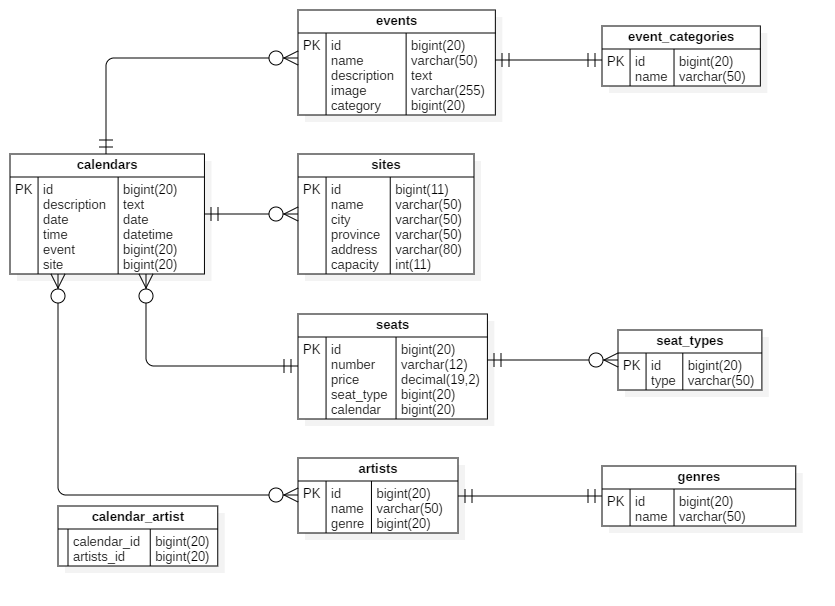
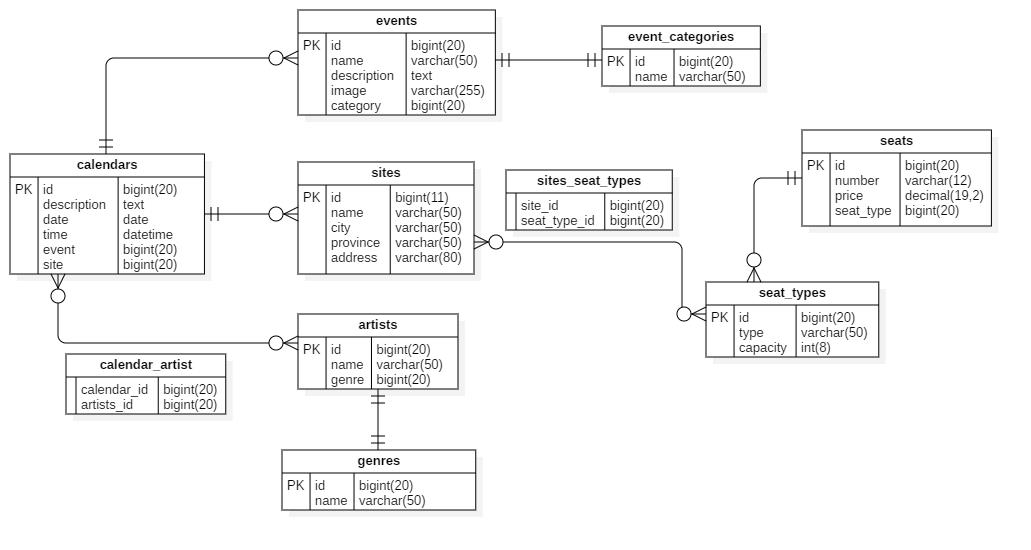
update der

Changed region(s): [[0.0, 0.2164, 0.9653, 0.9582], [0.0934, 0.0, 0.9341, 0.2164], [0.7473, 0.2164, 0.9653, 0.4327]]

diff --git a/src/main/java/com/gotoevent/api/entity/Site.java b/src/main/java/com/gotoevent/api/entity/Site.java
@@ -1,5 +1,8 @@
 package com.gotoevent.api.entity;
 
+import java.util.Set;
+
+import javax.persistence.CascadeType;
 import javax.persistence.Column;
 import javax.persistence.Entity;
 import javax.persistence.FetchType;
@@ -7,7 +10,7 @@ import javax.persistence.GeneratedValue;
 import javax.persistence.GenerationType;
 import javax.persistence.Id;
 import javax.persistence.JoinColumn;
-import javax.persistence.OneToOne;
+import javax.persistence.ManyToMany;
 import javax.persistence.Table;
 
 import lombok.Getter;
@@ -37,31 +40,32 @@ public class Site implements IValidation<Site> {
 	
 	@Column(name = "address", length = 80, nullable = false, unique = true)
 	private String address;
+		
+	@JoinColumn(name = "seatTypes", nullable = false)
+	@ManyToMany(fetch = FetchType.EAGER, cascade = CascadeType.ALL)
+	private Set<SeatType> seatTypes;
 	
-	@Column(name = "capacity", length = 8, nullable = false)
-	private int capacity;
-	
-	public Site(long id, String name, String city, String province, String address, int capacity) {
+	public Site(long id, String name, String city, String province, String address, Set<SeatType> seatTypes) {
 		this.id = id;
 		this.name = name;
 		this.city = city;
 		this.province = province;
 		this.address = address;
-		this.capacity = capacity;
+		this.seatTypes = seatTypes;
 	}
 	
-	public Site(String name, String city, String province, String address, int capacity) {
+	public Site(String name, String city, String province, String address, int capacity, Set<SeatType> seatTypes) {
 		this.name = name;
 		this.city = city;
 		this.province = province;
 		this.address = address;
-		this.capacity = capacity;
+		this.seatTypes = seatTypes;
 	}
-
+	
 	@Override
 	public String toString() {
 		return "Site [id=" + id + ", name=" + name + ", city=" + city + ", province=" + province + ", address="
-				+ address + ", capacity=" + capacity + "]";
+				+ address +", seatTypes=" + seatTypes + "]";
 	}
 
 	@Override
@@ -69,11 +73,11 @@ public class Site implements IValidation<Site> {
 		final int prime = 31;
 		int result = 1;
 		result = prime * result + ((address == null) ? 0 : address.hashCode());
-		result = prime * result + capacity;
 		result = prime * result + ((city == null) ? 0 : city.hashCode());
-		result = prime * result + ((name == null) ? 0 : name.hashCode());
 		result = prime * result + (int) (id ^ (id >>> 32));
+		result = prime * result + ((name == null) ? 0 : name.hashCode());
 		result = prime * result + ((province == null) ? 0 : province.hashCode());
+		result = prime * result + ((seatTypes == null) ? 0 : seatTypes.hashCode());
 		return result;
 	}
 
@@ -85,13 +89,16 @@ public class Site implements IValidation<Site> {
 		Site site = (Site) obj;
 		
 		return this.id == site.getId() && this.city.equals(site.getCity()) && this.province.equals(site.getProvince()) 
-			&& this.address.equals(site.getAddress()) && this.capacity == site.getCapacity() && this.name.equals(site.getName());
+			&& this.address.equals(site.getAddress()) && this.name.equals(site.getName()) && !this.seatTypes.isEmpty();
 	}
 
 	@Override
 	public boolean validateNullEmpty() {
         if(id >= 0 && name != null && !(name.trim().equals("")) && address != null && !(address.trim().equals(""))
-        		   && city != null && !(city.trim().equals("")) && province != null && !(province.trim().equals(""))) {
+        		&& city != null && !(city.trim().equals("")) && province != null && !(province.trim().equals("")) && !this.seatTypes.isEmpty()) {
+        	for(SeatType seatType : seatTypes) {
+        		if(!seatType.validateNullEmpty()) return false;
+        	}
             return false;
         }
 
@@ -104,6 +111,6 @@ public class Site implements IValidation<Site> {
             return false;
         }
         return true;
-	}	
+	}
 
 }

diff --git a/src/main/java/com/gotoevent/api/entity/Seat.java b/src/main/java/com/gotoevent/api/entity/Seat.java
@@ -2,7 +2,6 @@ package com.gotoevent.api.entity;
 
 import java.math.BigDecimal;
 
-import javax.persistence.CascadeType;
 import javax.persistence.Column;
 import javax.persistence.Entity;
 import javax.persistence.FetchType;
@@ -10,8 +9,6 @@ import javax.persistence.GeneratedValue;
 import javax.persistence.GenerationType;
 import javax.persistence.Id;
 import javax.persistence.JoinColumn;
-import javax.persistence.ManyToOne;
-import javax.persistence.OneToMany;
 import javax.persistence.OneToOne;
 import javax.persistence.Table;
 
@@ -41,30 +38,23 @@ public class Seat implements IValidation<Seat> {
 	@OneToOne(fetch = FetchType.EAGER)
 	private SeatType seatType;
 	
-	@JoinColumn(name = "calendar", nullable = false)
-	@ManyToOne(fetch = FetchType.EAGER, cascade = CascadeType.ALL)
-	private Calendar calendar;
-	
-	public Seat(long id, String number, BigDecimal price, SeatType seatType, Calendar calendar) {
+	public Seat(long id, String number, BigDecimal price, SeatType seatType) {
 		this.id = id;
 		this.number = number;
 		this.price = price;
 		this.seatType = seatType;
-		this.calendar = calendar;
 	}
 	
-	public Seat(String number, BigDecimal price, SeatType seatType, Calendar calendar) {
+	public Seat(String number, BigDecimal price, SeatType seatType) {
 		this.number = number;
 		this.price = price;
 		this.seatType = seatType;
-		this.calendar = calendar;
 	}
 
 	@Override
 	public int hashCode() {
 		final int prime = 31;
 		int result = 1;
-		result = prime * result + ((calendar == null) ? 0 : calendar.hashCode());
 		result = prime * result + (int) (id ^ (id >>> 32));
 		result = prime * result + ((number == null) ? 0 : number.hashCode());
 		result = prime * result + ((price == null) ? 0 : price.hashCode());
@@ -79,18 +69,17 @@ public class Seat implements IValidation<Seat> {
 
 		Seat seat = (Seat) obj;
 		
-		return this.id == seat.getId() && this.number.equals(seat.getNumber()) && this.price.equals(seat.getPrice()) && this.seatType.equals(seat.getSeatType()) && this.calendar.equals(seat.getCalendar());
+		return this.id == seat.getId() && this.number.equals(seat.getNumber()) && this.price.equals(seat.getPrice()) && this.seatType.equals(seat.getSeatType());
 	}
 
 	@Override
 	public String toString() {
-		return "Seat [id=" + id + ", number=" + number + ", price=" + price + ", seatType=" + seatType + ", calendar="
-				+ calendar + "]";
+		return "Seat [id=" + id + ", number=" + number + ", price=" + price + ", seatType=" + seatType + "]";
 	}
 
 	@Override
 	public boolean validateNullEmpty() {
-        if(id >= 0 && number != null && !(number.trim().equals("")) && price != null && seatType.validateNullEmpty() && calendar.validateNullEmpty()) {
+        if(id >= 0 && number != null && !(number.trim().equals("")) && price != null && seatType.validateNullEmpty()) {
             return false;
         }
 

diff --git a/src/main/java/com/gotoevent/api/entity/SeatType.java b/src/main/java/com/gotoevent/api/entity/SeatType.java
@@ -23,32 +23,38 @@ public class SeatType implements IValidation<SeatType> {
 	@Column(name = "id", nullable = false)
 	private long id;
 	
-	@Column(name = "types", length = 50, nullable = false, unique = true)
+	@Column(name = "type", length = 50, nullable = false)
 	private String type;
 	
-	public SeatType(long id, String type) {
+	@Column(name = "capacity", length = 8, nullable = false)
+	private int capacity;
+	
+	public SeatType(long id, String type, int capacity) {
 		this.id = id;
 		this.type = type;
+		this.capacity = capacity;
 	}
 	
-	public SeatType(String type) {
+	public SeatType(String type, int capacity) {
 		this.type = type;
+		this.capacity = capacity;
 	}
-
+	
 	@Override
 	public String toString() {
-		return "SeatType [id=" + id + ", type=" + type + "]";
+		return "SeatType [id=" + id + ", type=" + type + ", capacity=" + capacity + "]";
 	}
-	
+
 	@Override
 	public int hashCode() {
 		final int prime = 31;
 		int result = 1;
+		result = prime * result + capacity;
 		result = prime * result + (int) (id ^ (id >>> 32));
 		result = prime * result + ((type == null) ? 0 : type.hashCode());
 		return result;
 	}
-	
+
 	@Override
 	public boolean equals(Object obj) {
 		if(this == obj) return true;
@@ -56,8 +62,8 @@ public class SeatType implements IValidation<SeatType> {
 
 		SeatType seatType = (SeatType) obj;
 		
-		return this.id == seatType.getId() && this.type.equals(seatType.getType());
-	}
+		return this.id == seatType.getId() && this.type.equals(seatType.getType()) && this.capacity == seatType.getCapacity();
+	}	
 
 	@Override
 	public boolean validateNullEmpty() {
@@ -74,6 +80,6 @@ public class SeatType implements IValidation<SeatType> {
             return false;
         }
         return true;
-	}		
+	}
 
 }

diff --git a/src/main/java/com/gotoevent/api/repository/EventRepository.java b/src/main/java/com/gotoevent/api/repository/EventRepository.java
@@ -12,5 +12,5 @@ public interface EventRepository extends JpaRepository<Event, Long>{
 	
 	@Query(value="SELECT * FROM events a WHERE a.name = :name", nativeQuery = true)
     public Event getAttribute(@Param("name")String name);
-
+	
 }
